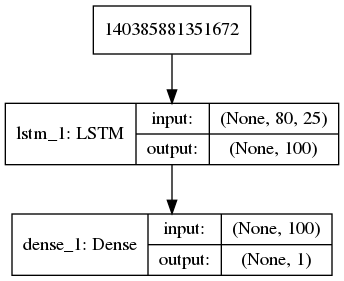
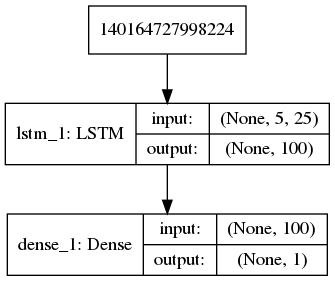
Add the snowballing_predict function

diff --git a/assignment_2/time_series_generator.py b/assignment_2/time_series_generator.py
@@ -125,11 +125,12 @@ def prepare_dataset(series_points, input_timesteps, predict_dimensions, output_t
     return (X, Y)
 
 
-def snowballing_predict(model, initial_ts_sample_set, input_timesteps, output_timesteps, num_predictions):
+def snowballing_predict(model, initial_ts_sample_set, X_to_pred, input_timesteps, output_timesteps):
     """
         Make predictions using given LSTM model by accumulating its own predictions, and using those to predict on next value etc
         initial_ts_sample_set = sample to use as the starting point for predictions (usually the last known sample of the time-series)
                             [this must be an np.ndarray with shape (num_samples, input_timesteps, dimension)]
+        X_to_pred = a series of datapoints which contains the X features (engineered features) for to-be-predicted points
         input_timesteps = no. of input time steps used when training the LSTM model (input layer size)
         output_timesteps = no. of output time steps used when training the LSTM model (output layer size)
         return:
@@ -139,12 +140,39 @@ def snowballing_predict(model, initial_ts_sample_set, input_timesteps, output_ti
 
     num_samples = initial_ts_sample_set.shape[0]
     data_dimension = initial_ts_sample_set.shape[2]
+    num_predictions = len(X_to_pred)
 
     assert output_timesteps == 1
     assert initial_ts_sample_set.shape[1] == input_timesteps
-    # assert data_dimension == 1  # Currently we only support this (otherwise need a lot of adjustments to prepare current-sample inside the loop)
 
+    current_input_set = initial_ts_sample_set   # This variable holds the input to be fed to model.predict(). It gets appended in each iteration of the for loop
 
+    all_predictions = np.zeros(num_predictions)
+
+    for i in range(num_predictions):
+        predicted_set = model.predict(current_input_set, batch_size=prediction_batch_size)
+        assert num_samples == predicted_set.shape[0]    # just to verify
+
+        last_prediction = predicted_set[-1]
+        all_predictions[i] = last_prediction
+
+        new_datapoint = np.zeros(data_dimension)
+        new_datapoint[:] = X_to_pred[i].X[:]
+        new_datapoint[0] = last_prediction
+        new_datapoint = new_datapoint.reshape([1, data_dimension])  # To make it possible to concat with the new_sample below
+
+        new_sample = np.copy(current_input_set[-1]) # creating a new_sample based on the last one in the current set
+        assert new_sample.shape[0] == input_timesteps
+        assert new_sample.shape[1] == data_dimension
+        new_sample = np.delete(new_sample, [0], axis=0)  # remove first element
+
+        new_sample = np.concatenate((new_sample, new_datapoint), axis=0)
+        new_sample = new_sample.reshape([1, input_timesteps, data_dimension])
+        current_input_set = np.concatenate((current_input_set, new_sample), axis=0)
+
+        num_samples += 1
+
+    return all_predictions
 
 
 
@@ -197,7 +225,7 @@ def new_convert_to_series(input_series, t_range):
     for idx in range(dataset_size):
         sample_X = [input_series[idx]]
         t = t_vals[idx]
-        output_series.append(data_point.DataPoint(t, sample_X, -1, -1))
+        output_series.append(data_point.DataPoint(t, '0000-00-00', sample_X, -1, -1))
 
     return output_series
 

diff --git a/assignment_2/run_LSTM_model.py b/assignment_2/run_LSTM_model.py
@@ -88,7 +88,7 @@ def run_system():
 
     # LSTM Architecture
 
-    input_timesteps = 80
+    input_timesteps = 5
     output_timesteps = 1  # This must be 1, because for now we only have the capability to predict one-step ahead
     predict_dimensions = [0]    # Which dimensions in the input series to predict. There must be only one dimension for now
     num_predict_dimensions = len(predict_dimensions)
@@ -105,7 +105,7 @@ def run_system():
 
     # Training params
     batch_size = 25 # Mini batch size in GD/ other algorithm
-    epcohs = 2 # 50 is good
+    epcohs = 20 # 50 is good
 
 
     # Create network
@@ -129,15 +129,22 @@ def run_system():
     X_train, Y_train = gen.prepare_dataset(train_series, input_timesteps, predict_dimensions, output_timesteps)
     X_validation, Y_validation = gen.prepare_dataset(validation_series, input_timesteps, predict_dimensions, output_timesteps)
 
+    print("Training LSTM model")
     history = model.fit(X_train, Y_train, epochs=epcohs, batch_size=batch_size, verbose=2
                         , validation_data=(X_validation, Y_validation))
+    print("Training LSTM model complete")
 
     plot_training_history(history)
 
+
     # Predict on validation data
     # Y_validation_predicted = model.predict(X_validation)
-    Y_validation_predicted = gen.moving_forward_window_predict(model, X_train[-100:], input_timesteps, output_timesteps,
-                                                               math.floor(len(X_validation)/output_timesteps))
+    # Y_validation_predicted = gen.moving_forward_window_predict(model, X_train[-100:], input_timesteps, output_timesteps,
+    #                                                            math.floor(len(X_validation)/output_timesteps))
+
+    print("Predicting on validation data")
+    Y_validation_predicted = gen.snowballing_predict(model, X_train[-100:], validation_series, input_timesteps, output_timesteps)
+
 
     validation_t_range = (validation_series[0].t, validation_series[-1].t)
 
@@ -154,8 +161,10 @@ def run_system():
     X_test, Y_test = gen.prepare_dataset(test_series, input_timesteps, predict_dimensions, output_timesteps)
 
     # Y_test_predicted = model.predict(X_test)
-    Y_test_predicted = gen.moving_forward_window_predict(model, X_validation[-100:], input_timesteps, output_timesteps,
-                                                               math.floor(len(X_test) / output_timesteps))
+    # Y_test_predicted = gen.moving_forward_window_predict(model, X_validation[-100:], input_timesteps, output_timesteps,
+    #                                                            math.floor(len(X_test) / output_timesteps))
+    print("Predicting on test data")
+    Y_test_predicted = gen.snowballing_predict(model, X_validation[-100:], test_series, input_timesteps, output_timesteps)
 
     Y_test_predicted_series = gen.new_convert_to_series(Y_test_predicted, test_t_range)
     Y_test_series = gen.new_convert_to_series(Y_test, test_t_range)
